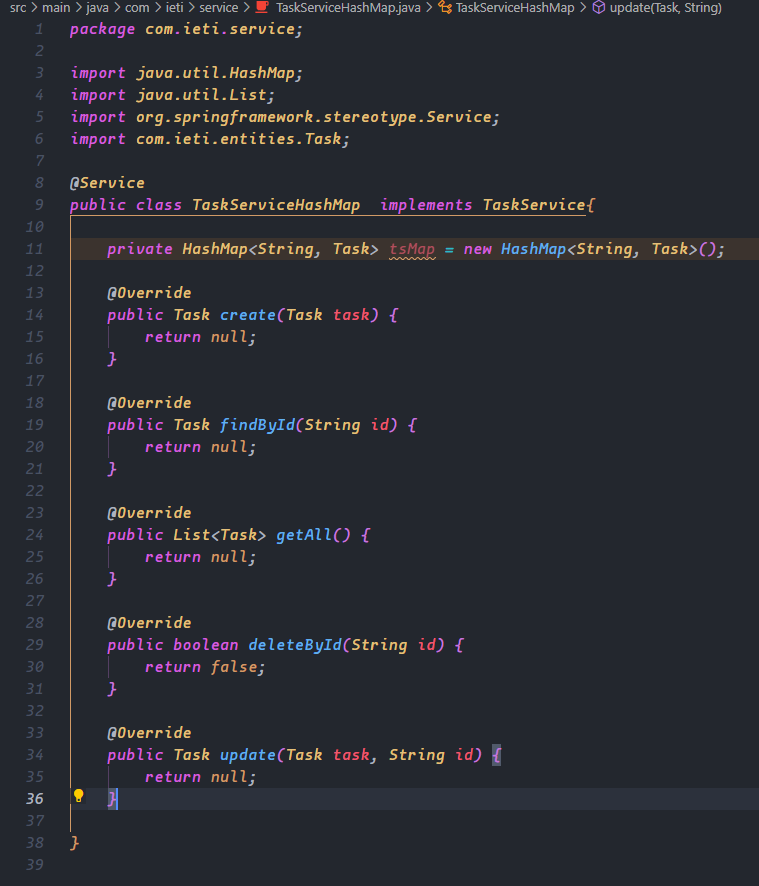
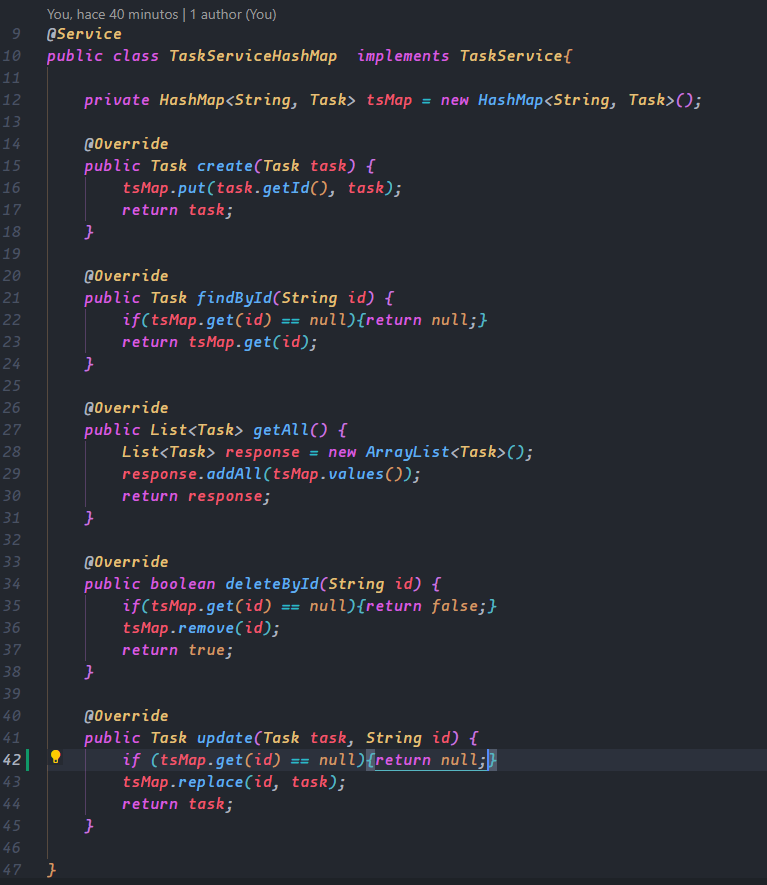
Finish P2

diff --git a/src/main/java/com/ieti/controller/TaskController.java b/src/main/java/com/ieti/controller/TaskController.java
@@ -1,9 +1,11 @@
 package com.ieti.controller;
 
+import java.util.ArrayList;
 import java.util.List;
 
 import org.modelmapper.ModelMapper;
 import org.springframework.beans.factory.annotation.Autowired;
+import org.springframework.http.HttpStatus;
 import org.springframework.http.ResponseEntity;
 import org.springframework.web.bind.annotation.PathVariable;
 import org.springframework.web.bind.annotation.RequestBody;
@@ -12,6 +14,7 @@ import org.springframework.web.bind.annotation.RequestMethod;
 import org.springframework.web.bind.annotation.RestController;
 
 import com.ieti.dto.TaskDto;
+import com.ieti.entities.Task;
 import com.ieti.service.TaskService;
 
 @RestController
@@ -28,27 +31,38 @@ public class TaskController {
 
     @RequestMapping( value = "/getAll", method = RequestMethod.GET )
     public ResponseEntity<List<TaskDto>> getAll(){
-        return null;
+        List<Task> temp = taskService.getAll();
+        List<TaskDto> converse = new ArrayList<TaskDto>();
+        for(Task task:temp){
+            converse.add(modelMapper.map(task, TaskDto.class));
+        }
+        return new ResponseEntity<>(converse, HttpStatus.OK);
     }
 
     @RequestMapping( value = "/findById/{id}", method = RequestMethod.GET )
     public ResponseEntity<TaskDto> findById( @PathVariable String id ){
-        return null;
+        TaskDto tDto = modelMapper.map(taskService.findById(id), TaskDto.class);
+        return new ResponseEntity<>(tDto, HttpStatus.OK);
     }
 
-    @RequestMapping( value = "/create/", method = RequestMethod.POST )
+    @RequestMapping( value = "/create", method = RequestMethod.POST )
     public ResponseEntity<TaskDto> create( @RequestBody TaskDto task ){
-        return null;
+        taskService.create(modelMapper.map(task, Task.class));
+        return new ResponseEntity<>(task, HttpStatus.OK);
     }
 
     @RequestMapping( value = "/update/{id}", method = RequestMethod.PUT )
     public ResponseEntity<TaskDto> update( @RequestBody TaskDto task, @PathVariable String id ){
-        return null;
+        if(taskService.update(modelMapper.map(task, Task.class), id) == null){ return new ResponseEntity<>(HttpStatus.NOT_FOUND);}
+        taskService.update(modelMapper.map(task, Task.class), id);
+        return new ResponseEntity<>(task, HttpStatus.OK);
     }
 
     @RequestMapping( value = "/delete/{id}", method = RequestMethod.DELETE )
     public ResponseEntity<String> delete( @PathVariable String id ){
-        return null;
+        boolean flag = taskService.deleteById(id);
+        if(!flag){return new ResponseEntity<>("Unsuccessful elimination", HttpStatus.NOT_FOUND);}
+        return new ResponseEntity<>("Successful elimination", HttpStatus.OK);
     }
 
 }

diff --git a/src/main/java/com/ieti/service/TaskServiceHashMap.java b/src/main/java/com/ieti/service/TaskServiceHashMap.java
@@ -39,6 +39,7 @@ public class TaskServiceHashMap  implements TaskService{
 
     @Override
     public Task update(Task task, String id) {
+        if (tsMap.get(id) == null){return null;}
         tsMap.replace(id, task);
         return task;
     }

diff --git a/README.md b/README.md
@@ -24,3 +24,30 @@
 
     ![TSHM](img/TSHM.png)
 
+    ![TaskContro Impl](img/TaskController%20Impl.png)
+
++ **Endpoints Test**
+
++ Post Test
+
+    ![Post Test](img/Post%20Test.png)
+
++ GetAll Test
+
+    ![Get Test](img/Get%20Test.png)
+
++ GetById Test
+
+    ![Find Test](img/Find%20Test.png)
+
++ Put Test
+
+    ![Update Test](img/Put%20Test.png)
+
++ Delete Test
+
+    ![Delete Test](img/Delete%20Test.png)
+
++ Delete Fail Test
+
+    ![Delete Fail Test](img/Delete%20Fail%20Test.png)
